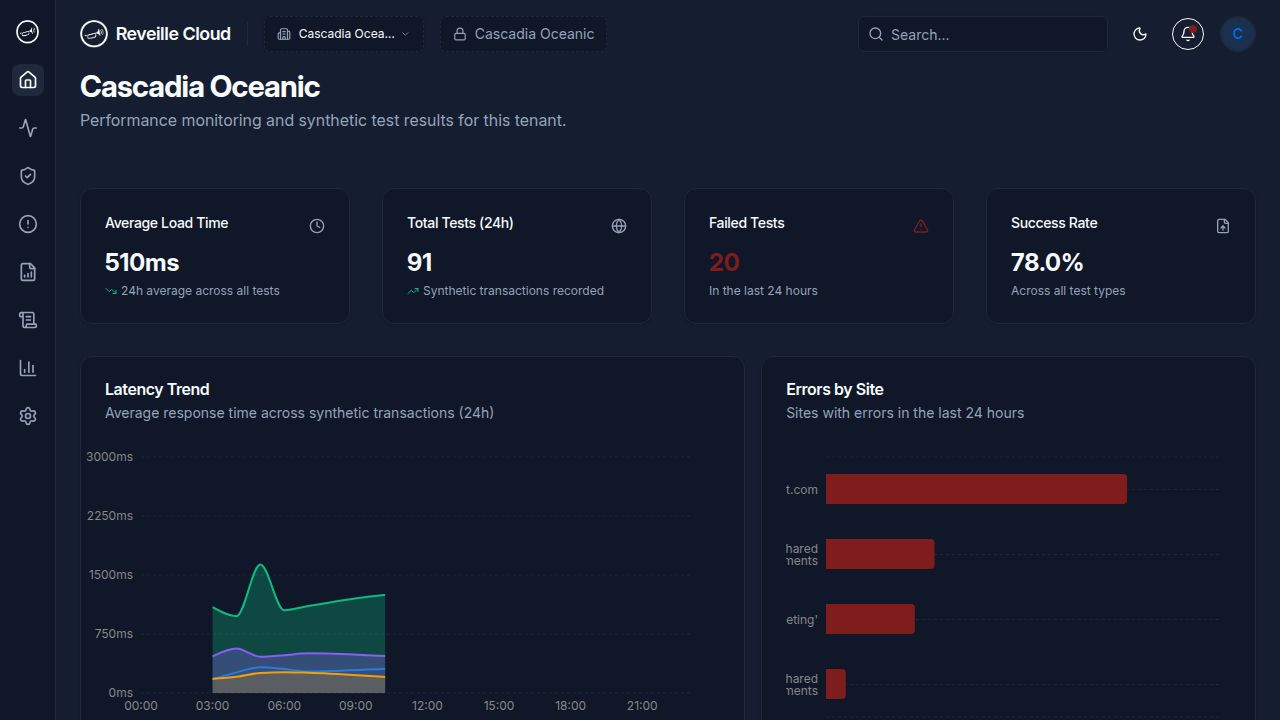
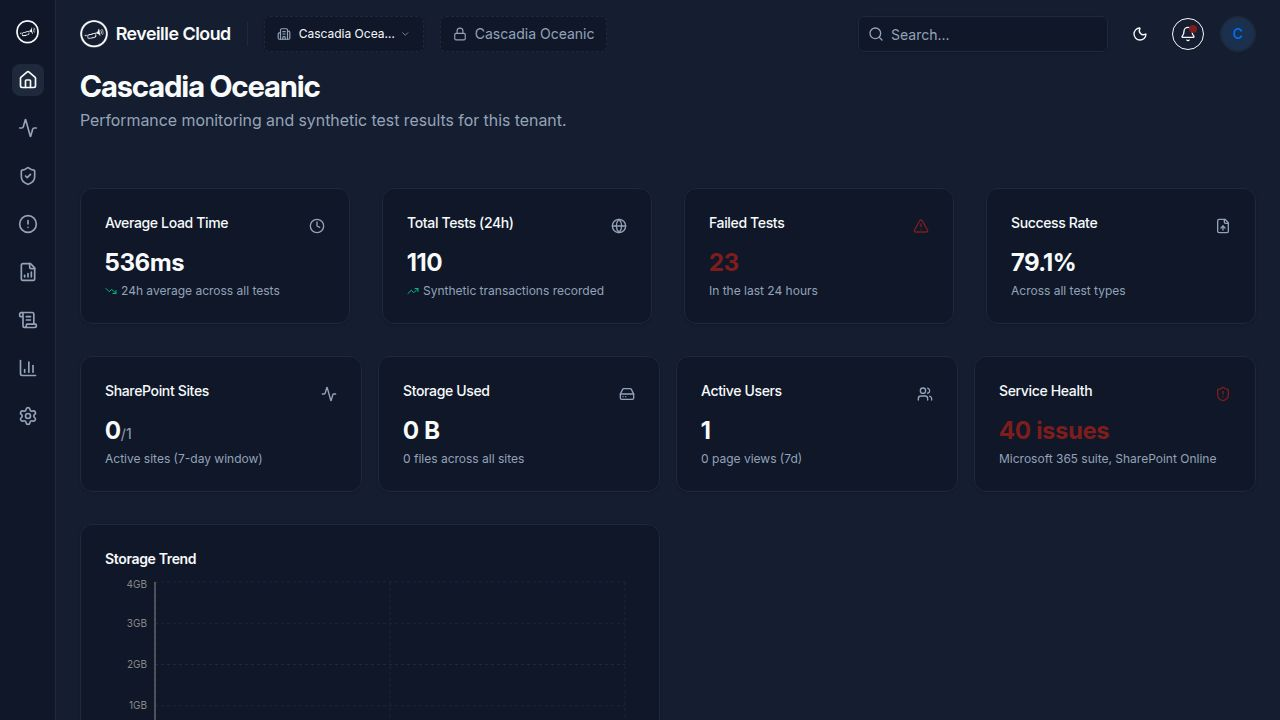
Improve SharePoint site data collection and parsing accuracy
Replaced Microsoft Graph SDK calls for report endpoints with direct fetch requests to correctly handle CSV redirects and ensure accurate parsing of site usage details, resolving issues with empty storage data and improving overall data integrity.

Replit-Commit-Author: Agent
Replit-Commit-Session-Id: d369ee71-4fa6-4553-b1ac-325e3540190d
Replit-Commit-Checkpoint-Type: full_checkpoint
Replit-Commit-Event-Id: 268e0f8c-82d8-47fb-830b-64ee49cbf6cd
Replit-Commit-Screenshot-Url: https://storage.googleapis.com/screenshot-production-us-central1/a0f16eec-578b-48d3-9621-63b44943948e/d369ee71-4fa6-4553-b1ac-325e3540190d/y7leu33
Replit-Helium-Checkpoint-Created: true

diff --git a/server/collectors/graphReports.ts b/server/collectors/graphReports.ts
@@ -1,5 +1,5 @@
 import { getUncachableSharePointClient } from "../sharepoint";
-import { getAzureGraphClient, isAzureAppConfigured } from "../azureAuth";
+import { getAzureGraphClient, getClientCredentialsToken, isAzureAppConfigured } from "../azureAuth";
 import { storage } from "../storage";
 
 interface ReportResult {
@@ -63,11 +63,55 @@ function parseCSV(csvText: string): Record<string, string>[] {
   return rows;
 }
 
-async function fetchReport(client: any, endpoint: string): Promise<{ csv: string | null; json: any[] | null }> {
+async function fetchReport(client: any, endpoint: string, azureTenantId?: string): Promise<{ csv: string | null; json: any[] | null }> {
+  const shortEndpoint = endpoint.split("/").pop()?.split("(")[0] || endpoint;
+
+  if (azureTenantId) {
+    try {
+      const token = await getClientCredentialsToken(azureTenantId);
+      const url = `https://graph.microsoft.com/v1.0${endpoint}`;
+      const resp = await fetch(url, {
+        headers: {
+          Authorization: `Bearer ${token}`,
+        },
+        redirect: "follow",
+      });
+
+      if (resp.status === 403 || resp.status === 401) {
+        console.warn(`[Graph Reports] Permission denied for ${shortEndpoint} (${resp.status})`);
+        return { csv: null, json: null };
+      }
+
+      if (!resp.ok) {
+        const errText = await resp.text().catch(() => "");
+        throw new Error(`Graph API ${resp.status}: ${errText.slice(0, 200)}`);
+      }
+
+      const contentType = resp.headers.get("content-type") || "";
+      const body = await resp.text();
+
+      if (contentType.includes("application/json")) {
+        try {
+          const parsed = JSON.parse(body);
+          const rows = Array.isArray(parsed) ? parsed : parsed.value || [parsed];
+          return { csv: null, json: rows };
+        } catch {
+          return { csv: body, json: null };
+        }
+      }
+
+      return { csv: body, json: null };
+    } catch (err: any) {
+      if (err.message?.includes("403") || err.message?.includes("Authorization_RequestDenied")) {
+        console.warn(`[Graph Reports] Permission denied for ${shortEndpoint}`);
+        return { csv: null, json: null };
+      }
+      throw err;
+    }
+  }
+
   try {
-    const response = await client.api(endpoint)
-      .header("Accept", "application/json")
-      .get();
+    const response = await client.api(endpoint).get();
 
     if (typeof response === "string") {
       if (response.trim().startsWith("[") || response.trim().startsWith("{")) {
@@ -113,9 +157,9 @@ function normalizeJsonReport(rows: any[], fieldMap: Record<string, string>): any
   });
 }
 
-async function collectSiteUsageDetail(client: any, tenantId: string): Promise<ReportResult> {
+async function collectSiteUsageDetail(client: any, tenantId: string, azureTenantId?: string): Promise<ReportResult> {
   try {
-    const { csv, json } = await fetchReport(client, "/reports/getSharePointSiteUsageDetail(period='D7')");
+    const { csv, json } = await fetchReport(client, "/reports/getSharePointSiteUsageDetail(period='D7')", azureTenantId);
     if (!csv && !json) return { reportType: "siteUsageDetail", recordsCollected: 0, error: "Permission denied" };
 
     let sites: any[] = [];
@@ -124,17 +168,18 @@ async function collectSiteUsageDetail(client: any, tenantId: string): Promise<Re
     if (json && json.length > 0) {
       reportDate = json[0].reportRefreshDate || reportDate;
       sites = json.map(r => ({
-        siteUrl: r.siteUrl,
-        owner: r.ownerDisplayName,
-        storageUsedBytes: r.storageUsedInBytes || 0,
-        storageAllocatedBytes: r.storageAllocatedInBytes || 0,
-        fileCount: r.fileCount || 0,
-        activeFileCount: r.activeFileCount || 0,
-        pageViewCount: r.pageViewCount || 0,
-        visitedPageCount: r.visitedPageCount || 0,
-        lastActivityDate: r.lastActivityDate,
+        siteUrl: r.siteUrl || r["Site URL"],
+        owner: r.ownerDisplayName || r["Owner Display Name"],
+        storageUsedBytes: r.storageUsedInBytes || parseInt(r["Storage Used (Byte)"] || "0") || 0,
+        storageAllocatedBytes: r.storageAllocatedInBytes || parseInt(r["Storage Allocated (Byte)"] || "0") || 0,
+        fileCount: r.fileCount || parseInt(r["File Count"] || "0") || 0,
+        activeFileCount: r.activeFileCount || parseInt(r["Active File Count"] || "0") || 0,
+        pageViewCount: r.pageViewCount || parseInt(r["Page View Count"] || "0") || 0,
+        visitedPageCount: r.visitedPageCount || parseInt(r["Visited Page Count"] || "0") || 0,
+        lastActivityDate: r.lastActivityDate || r["Last Activity Date"],
       }));
-    } else if (csv) {
+    }
+    if (!sites.length && csv) {
       const rows = parseCSV(csv);
       if (rows.length === 0) return { reportType: "siteUsageDetail", recordsCollected: 0 };
       reportDate = rows[0]["Report Refresh Date"] || reportDate;
@@ -166,9 +211,9 @@ async function collectSiteUsageDetail(client: any, tenantId: string): Promise<Re
   }
 }
 
-async function collectSiteUsageSiteCounts(client: any, tenantId: string): Promise<ReportResult> {
+async function collectSiteUsageSiteCounts(client: any, tenantId: string, azureTenantId?: string): Promise<ReportResult> {
   try {
-    const { csv, json } = await fetchReport(client, "/reports/getSharePointSiteUsageSiteCounts(period='D7')");
+    const { csv, json } = await fetchReport(client, "/reports/getSharePointSiteUsageSiteCounts(period='D7')", azureTenantId);
     if (!csv && !json) return { reportType: "siteUsageCounts", recordsCollected: 0, error: "Permission denied" };
 
     let daily: any[] = [];
@@ -201,9 +246,9 @@ async function collectSiteUsageSiteCounts(client: any, tenantId: string): Promis
   }
 }
 
-async function collectStorageUsage(client: any, tenantId: string): Promise<ReportResult> {
+async function collectStorageUsage(client: any, tenantId: string, azureTenantId?: string): Promise<ReportResult> {
   try {
-    const { csv, json } = await fetchReport(client, "/reports/getSharePointSiteUsageStorage(period='D7')");
+    const { csv, json } = await fetchReport(client, "/reports/getSharePointSiteUsageStorage(period='D7')", azureTenantId);
     if (!csv && !json) return { reportType: "storageUsage", recordsCollected: 0, error: "Permission denied" };
 
     let daily: any[] = [];
@@ -234,9 +279,9 @@ async function collectStorageUsage(client: any, tenantId: string): Promise<Repor
   }
 }
 
-async function collectFileActivity(client: any, tenantId: string): Promise<ReportResult> {
+async function collectFileActivity(client: any, tenantId: string, azureTenantId?: string): Promise<ReportResult> {
   try {
-    const { csv, json } = await fetchReport(client, "/reports/getSharePointSiteUsageFileCounts(period='D7')");
+    const { csv, json } = await fetchReport(client, "/reports/getSharePointSiteUsageFileCounts(period='D7')", azureTenantId);
     if (!csv && !json) return { reportType: "fileActivity", recordsCollected: 0, error: "Permission denied" };
 
     let daily: any[] = [];
@@ -269,9 +314,9 @@ async function collectFileActivity(client: any, tenantId: string): Promise<Repor
   }
 }
 
-async function collectActiveUsers(client: any, tenantId: string): Promise<ReportResult> {
+async function collectActiveUsers(client: any, tenantId: string, azureTenantId?: string): Promise<ReportResult> {
   try {
-    const { csv, json } = await fetchReport(client, "/reports/getSharePointActivityUserDetail(period='D7')");
+    const { csv, json } = await fetchReport(client, "/reports/getSharePointActivityUserDetail(period='D7')", azureTenantId);
     if (!csv && !json) return { reportType: "activeUsers", recordsCollected: 0, error: "Permission denied" };
 
     let users: any[] = [];
@@ -315,9 +360,9 @@ async function collectActiveUsers(client: any, tenantId: string): Promise<Report
   }
 }
 
-async function collectOneDriveUsageDetail(client: any, tenantId: string): Promise<ReportResult> {
+async function collectOneDriveUsageDetail(client: any, tenantId: string, azureTenantId?: string): Promise<ReportResult> {
   try {
-    const { csv, json } = await fetchReport(client, "/reports/getOneDriveUsageAccountDetail(period='D7')");
+    const { csv, json } = await fetchReport(client, "/reports/getOneDriveUsageAccountDetail(period='D7')", azureTenantId);
     if (!csv && !json) return { reportType: "onedriveUsageDetail", recordsCollected: 0, error: "Permission denied" };
 
     let accounts: any[] = [];
@@ -365,9 +410,9 @@ async function collectOneDriveUsageDetail(client: any, tenantId: string): Promis
   }
 }
 
-async function collectOneDriveActivityDetail(client: any, tenantId: string): Promise<ReportResult> {
+async function collectOneDriveActivityDetail(client: any, tenantId: string, azureTenantId?: string): Promise<ReportResult> {
   try {
-    const { csv, json } = await fetchReport(client, "/reports/getOneDriveActivityUserDetail(period='D7')");
+    const { csv, json } = await fetchReport(client, "/reports/getOneDriveActivityUserDetail(period='D7')", azureTenantId);
     if (!csv && !json) return { reportType: "onedriveActivityDetail", recordsCollected: 0, error: "Permission denied" };
 
     let users: any[] = [];
@@ -409,9 +454,9 @@ async function collectOneDriveActivityDetail(client: any, tenantId: string): Pro
   }
 }
 
-async function collectOneDriveStorageUsage(client: any, tenantId: string): Promise<ReportResult> {
+async function collectOneDriveStorageUsage(client: any, tenantId: string, azureTenantId?: string): Promise<ReportResult> {
   try {
-    const { csv, json } = await fetchReport(client, "/reports/getOneDriveUsageStorage(period='D7')");
+    const { csv, json } = await fetchReport(client, "/reports/getOneDriveUsageStorage(period='D7')", azureTenantId);
     if (!csv && !json) return { reportType: "onedriveStorageUsage", recordsCollected: 0, error: "Permission denied" };
 
     let daily: any[] = [];
@@ -444,9 +489,9 @@ async function collectOneDriveStorageUsage(client: any, tenantId: string): Promi
   }
 }
 
-async function collectM365AppUsage(client: any, tenantId: string): Promise<ReportResult> {
+async function collectM365AppUsage(client: any, tenantId: string, azureTenantId?: string): Promise<ReportResult> {
   try {
-    const { csv, json } = await fetchReport(client, "/reports/getM365AppUserDetail(period='D7')");
+    const { csv, json } = await fetchReport(client, "/reports/getM365AppUserDetail(period='D7')", azureTenantId);
     if (!csv && !json) return { reportType: "m365AppUsage", recordsCollected: 0, error: "Permission denied" };
 
     let users: any[] = [];
@@ -503,9 +548,9 @@ async function collectM365AppUsage(client: any, tenantId: string): Promise<Repor
   }
 }
 
-async function collectTeamsActivity(client: any, tenantId: string): Promise<ReportResult> {
+async function collectTeamsActivity(client: any, tenantId: string, azureTenantId?: string): Promise<ReportResult> {
   try {
-    const { csv, json } = await fetchReport(client, "/reports/getTeamsUserActivityUserDetail(period='D7')");
+    const { csv, json } = await fetchReport(client, "/reports/getTeamsUserActivityUserDetail(period='D7')", azureTenantId);
     if (!csv && !json) return { reportType: "teamsActivity", recordsCollected: 0, error: "Permission denied" };
 
     let users: any[] = [];
@@ -550,9 +595,9 @@ async function collectTeamsActivity(client: any, tenantId: string): Promise<Repo
   }
 }
 
-async function collectEmailActivity(client: any, tenantId: string): Promise<ReportResult> {
+async function collectEmailActivity(client: any, tenantId: string, azureTenantId?: string): Promise<ReportResult> {
   try {
-    const { csv, json } = await fetchReport(client, "/reports/getEmailActivityUserDetail(period='D7')");
+    const { csv, json } = await fetchReport(client, "/reports/getEmailActivityUserDetail(period='D7')", azureTenantId);
     if (!csv && !json) return { reportType: "emailActivity", recordsCollected: 0, error: "Permission denied" };
 
     let users: any[] = [];
@@ -592,9 +637,9 @@ async function collectEmailActivity(client: any, tenantId: string): Promise<Repo
   }
 }
 
-async function collectCopilotUsageDetail(client: any, tenantId: string): Promise<ReportResult> {
+async function collectCopilotUsageDetail(client: any, tenantId: string, azureTenantId?: string): Promise<ReportResult> {
   try {
-    const { csv, json } = await fetchReport(client, "/reports/getMicrosoft365CopilotUsageUserDetail(period='D7')");
+    const { csv, json } = await fetchReport(client, "/reports/getMicrosoft365CopilotUsageUserDetail(period='D7')", azureTenantId);
     if (!csv && !json) return { reportType: "copilotUsageDetail", recordsCollected: 0, error: "Permission denied or not available" };
 
     let users: any[] = [];
@@ -660,9 +705,9 @@ async function collectCopilotUsageDetail(client: any, tenantId: string): Promise
   }
 }
 
-async function collectCopilotUserCounts(client: any, tenantId: string): Promise<ReportResult> {
+async function collectCopilotUserCounts(client: any, tenantId: string, azureTenantId?: string): Promise<ReportResult> {
   try {
-    const { csv, json } = await fetchReport(client, "/reports/getMicrosoft365CopilotUserCountSummary(period='D7')");
+    const { csv, json } = await fetchReport(client, "/reports/getMicrosoft365CopilotUserCountSummary(period='D7')", azureTenantId);
     if (!csv && !json) return { reportType: "copilotUserCounts", recordsCollected: 0, error: "Permission denied or not available" };
 
     let summary: any[] = [];
@@ -704,9 +749,9 @@ async function collectCopilotUserCounts(client: any, tenantId: string): Promise<
   }
 }
 
-async function collectCopilotUserCountTrend(client: any, tenantId: string): Promise<ReportResult> {
+async function collectCopilotUserCountTrend(client: any, tenantId: string, azureTenantId?: string): Promise<ReportResult> {
   try {
-    const { csv, json } = await fetchReport(client, "/reports/getMicrosoft365CopilotUserCountTrend(period='D7')");
+    const { csv, json } = await fetchReport(client, "/reports/getMicrosoft365CopilotUserCountTrend(period='D7')", azureTenantId);
     if (!csv && !json) return { reportType: "copilotUserCountTrend", recordsCollected: 0, error: "Permission denied or not available" };
 
     let daily: any[] = [];
@@ -746,36 +791,38 @@ async function collectCopilotUserCountTrend(client: any, tenantId: string): Prom
   }
 }
 
-async function getGraphClientForTenant(tenantId: string) {
+async function getGraphClientForTenant(tenantId: string): Promise<{ client: any; azureTenantId?: string }> {
   const tenant = await storage.getTenant(tenantId);
   if (isAzureAppConfigured() && tenant?.azureTenantId) {
-    return getAzureGraphClient(tenant.azureTenantId);
+    const client = await getAzureGraphClient(tenant.azureTenantId);
+    return { client, azureTenantId: tenant.azureTenantId };
   }
-  return getUncachableSharePointClient();
+  const client = await getUncachableSharePointClient();
+  return { client };
 }
 
 export async function collectSharePointUsageReports(tenantId: string): Promise<{
   results: ReportResult[];
   totalCollected: number;
 }> {
-  const client = await getGraphClientForTenant(tenantId);
+  const { client, azureTenantId } = await getGraphClientForTenant(tenantId);
 
   const results: ReportResult[] = [];
   const collectors = [
-    () => collectSiteUsageDetail(client, tenantId),
-    () => collectSiteUsageSiteCounts(client, tenantId),
-    () => collectStorageUsage(client, tenantId),
-    () => collectFileActivity(client, tenantId),
-    () => collectActiveUsers(client, tenantId),
-    () => collectOneDriveUsageDetail(client, tenantId),
-    () => collectOneDriveActivityDetail(client, tenantId),
-    () => collectOneDriveStorageUsage(client, tenantId),
-    () => collectM365AppUsage(client, tenantId),
-    () => collectTeamsActivity(client, tenantId),
-    () => collectEmailActivity(client, tenantId),
-    () => collectCopilotUsageDetail(client, tenantId),
-    () => collectCopilotUserCounts(client, tenantId),
-    () => collectCopilotUserCountTrend(client, tenantId),
+    () => collectSiteUsageDetail(client, tenantId, azureTenantId),
+    () => collectSiteUsageSiteCounts(client, tenantId, azureTenantId),
+    () => collectStorageUsage(client, tenantId, azureTenantId),
+    () => collectFileActivity(client, tenantId, azureTenantId),
+    () => collectActiveUsers(client, tenantId, azureTenantId),
+    () => collectOneDriveUsageDetail(client, tenantId, azureTenantId),
+    () => collectOneDriveActivityDetail(client, tenantId, azureTenantId),
+    () => collectOneDriveStorageUsage(client, tenantId, azureTenantId),
+    () => collectM365AppUsage(client, tenantId, azureTenantId),
+    () => collectTeamsActivity(client, tenantId, azureTenantId),
+    () => collectEmailActivity(client, tenantId, azureTenantId),
+    () => collectCopilotUsageDetail(client, tenantId, azureTenantId),
+    () => collectCopilotUserCounts(client, tenantId, azureTenantId),
+    () => collectCopilotUserCountTrend(client, tenantId, azureTenantId),
   ];
 
   for (const collector of collectors) {
